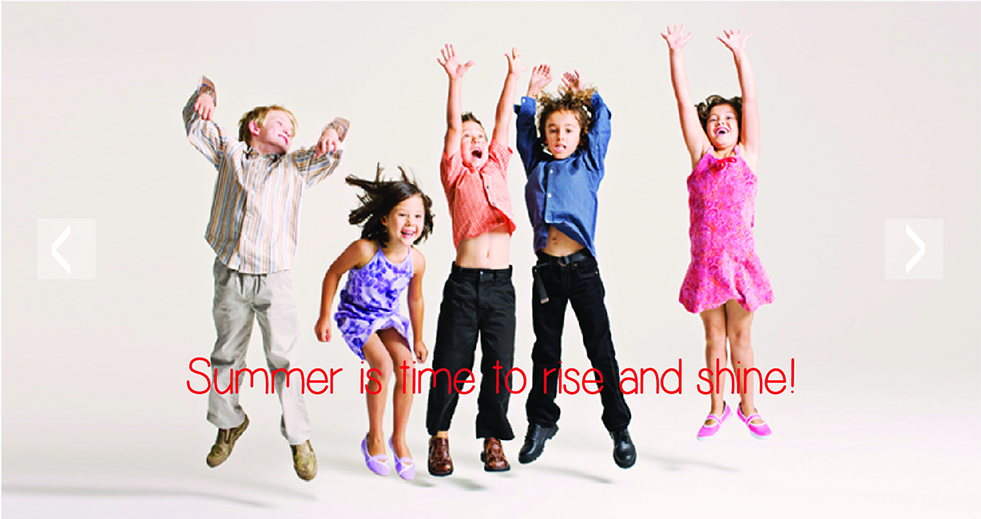
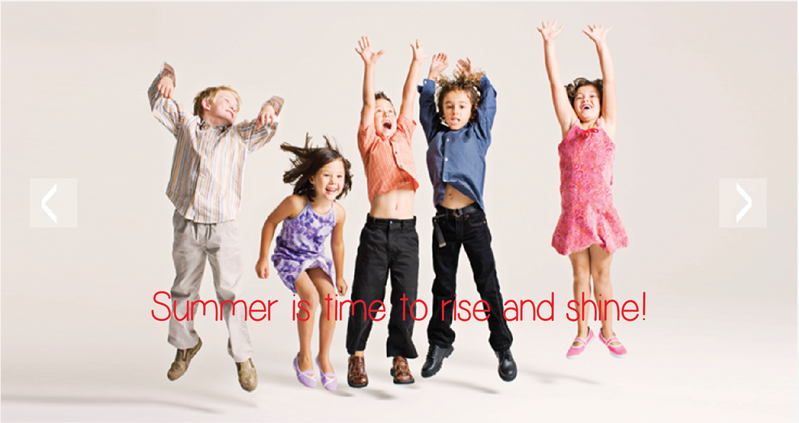
sd

Changed region(s): [[0.1802, 0.0922, 0.811, 0.922], [0.6608, 0.0615, 0.6909, 0.1844], [0.7209, 0.0615, 0.7509, 0.1229]]

diff --git a/public/css/main.css b/public/css/main.css
@@ -50,6 +50,13 @@ body {
 	left:905px;
 	bottom:10px;
 }
+.top .cart {
+	width:43px;
+	height:35px;
+	position:absolute;
+	right:178px;
+	top:65px;
+}
 .top ul.topnav {
 	display:inline-block;
 	position:absolute;
@@ -109,41 +116,121 @@ body {
 }
 .middle .top-banner {
 	display:block;
+	margin:0 auto;
 	background-color:#fff;
 	background-image:url(/img/bannersample.png);
-	height:519px;
-	width:981px
+	width:799px;
+	height:423px;
+	margin-bottom:20px;
 }
-.bottom .subscribe {
+.middle .products {
 	display:block;
 	position:relative;
-	width:980px;
+	width:799px;
+	height:400px;
+	background-color:#fff;
+	margin:0 auto;
+	margin-bottom:20px;
+}
+.middle .title {
+	position:absolute;
+	left:24px;
+	top:20px;
+}
+.middle .title span {
+	font-weight:200;
+	font-size:20px;
+	color:#848382;
+}
+.middle .productsbar {
+	position:absolute;
+	background-image:url(/img/products-bar.png);
+	height:31px;
+	width:751px;
+	bottom:10px;
+	left:24px;
+}
+.bottom .newsletter {
+	display:block;
+	position:relative;
+	width:799px;
 	height:192px;
 	background-color:#fff;
-	margin-top:10px;
+	margin:0 auto;
+	margin-bottom:20px;
 }
 .bottom .slogan {
 	position:absolute;
 	top:10px;
-	left:10px;
+	left:24px;
 }
 .bottom .slogan span {
+	font-weight:100;
+	font-size:19px;
+	color:#848382;
+}
+.bottom .awlogo {
+	position:absolute;
+	height:58px;
+	width:199px;
+	background-image:url(/img/american-w.png);
+	left:50px;
+	bottom:60px;
+}
+.bottom .pinklogo {
+	position:absolute;
+	height:109px;
+	width:118px;
+	background-image:url(/img/candy-bean.png);
+	left:290px;
+	bottom:30px;
+}
+.bottom .subscribebar {
+	position:absolute;
+	height:42px;
+	width:141px;
+	background-image:url(/img/subscribe-bar.png);
+	right:20px;
+	bottom:50px;
+}
+.bottom a {
+	text-decoration:none;
+	vertical-align:center;
+	color:#fff;
+}
+.bottom .email {
+	position:absolute;
+	border-width:1px;
+	border-style:solid;
+	border-color:#d6d5d6;
+	height:41px;
+	width:140px;
+	right:175px;
+	bottom:49px;
+}
+.bottom .signup {
+	position:absolute;
+	right:90px;
+	top:70px;
+}
+.bottom .signup span {
+	font-size:17px;
 	font-weight:200;
-	color:#;
+	color:#797877;
 }
 .bottom .footer {
-	display:inline-block;
-	width:980px;
+	display:block;
+	width:799px;
+	margin:0 auto;
 	background-color:#3cbef6;
 	text-align:center;
-	margin-top:10px;
-	margin-bottom:20px;
 	background-image:url(/img/footer-bg.png);
+	margin-bottom:20px;
 }
 .bottom .header {
 	display:block;
 	color:#fff;
-	margin-bottom:22px;
+	margin-bottom:20px;
 	font-size:20px;
 	font-weight:400;
 }
@@ -157,7 +244,7 @@ body {
 	margin:20px 0;
 }
 .bottom .footer ul li {
-	padding:0 80px 0 80px;
+	padding:0 40px 0 40px;
 }
 .bottom .footer ul li a {
 	text-decoration:none;
@@ -166,4 +253,13 @@ body {
 }
 .bottom .footer ul li span {
 	color:#fff;
+}
+.last .copyright {
+	display:block;
+	position:relative;
+	margin:0 auto;
+	background-color:#fff;
+	width:799px;
+	height:50px;
+	margin-bottom:20px;
 }

diff --git a/views/layout.html b/views/layout.html
@@ -49,12 +49,23 @@
 
 					{% endblock %}
 				</div>
+				<div class="products">
+					<div class="title">
+						<span>best sellers</span>
+					</div>
+					<div class="productsbar"></div>
+				</div>
 			</div>
 		</div>
 		<div class="bottom full-width">
 			<div class="site-width">
-				<div class="subscribe">	
-					<div class="slogan"><span>if you love sara's, you'll adore our other brands...</span></div>			
+				<div class="newsletter">	
+					<div class="slogan"><span>if you love sara's, you'll adore our other brands...</span></div>	
+					<div class="awlogo"></div>
+					<div class="pinklogo"></div>
+					<a href="#" class="subscribebar"><span>subscribe</span></a>	
+					<div class="email"></div>
+					<div class="signup"><span>sign up for event and promotions</span></div>
 				</div>
 				<div class="footer">
 					<ul>
@@ -78,10 +89,12 @@
 				</div>
 			</div>
 		</div>
-		<div class="site-width">
-			<div class="copyright">
-	        	<span>&copy;{{year}} Sara's Prints.</span> All Rights Reserved
-	    	</div>
+		<div class="last full-width">
+			<div class="site-width">
+				<div class="copyright">
+	        		<span>&copy;{{year}} Sara's Prints.</span> All Rights Reserved
+	    		</div>
+			</div>
 		</div>
         {% block foot %}
 
